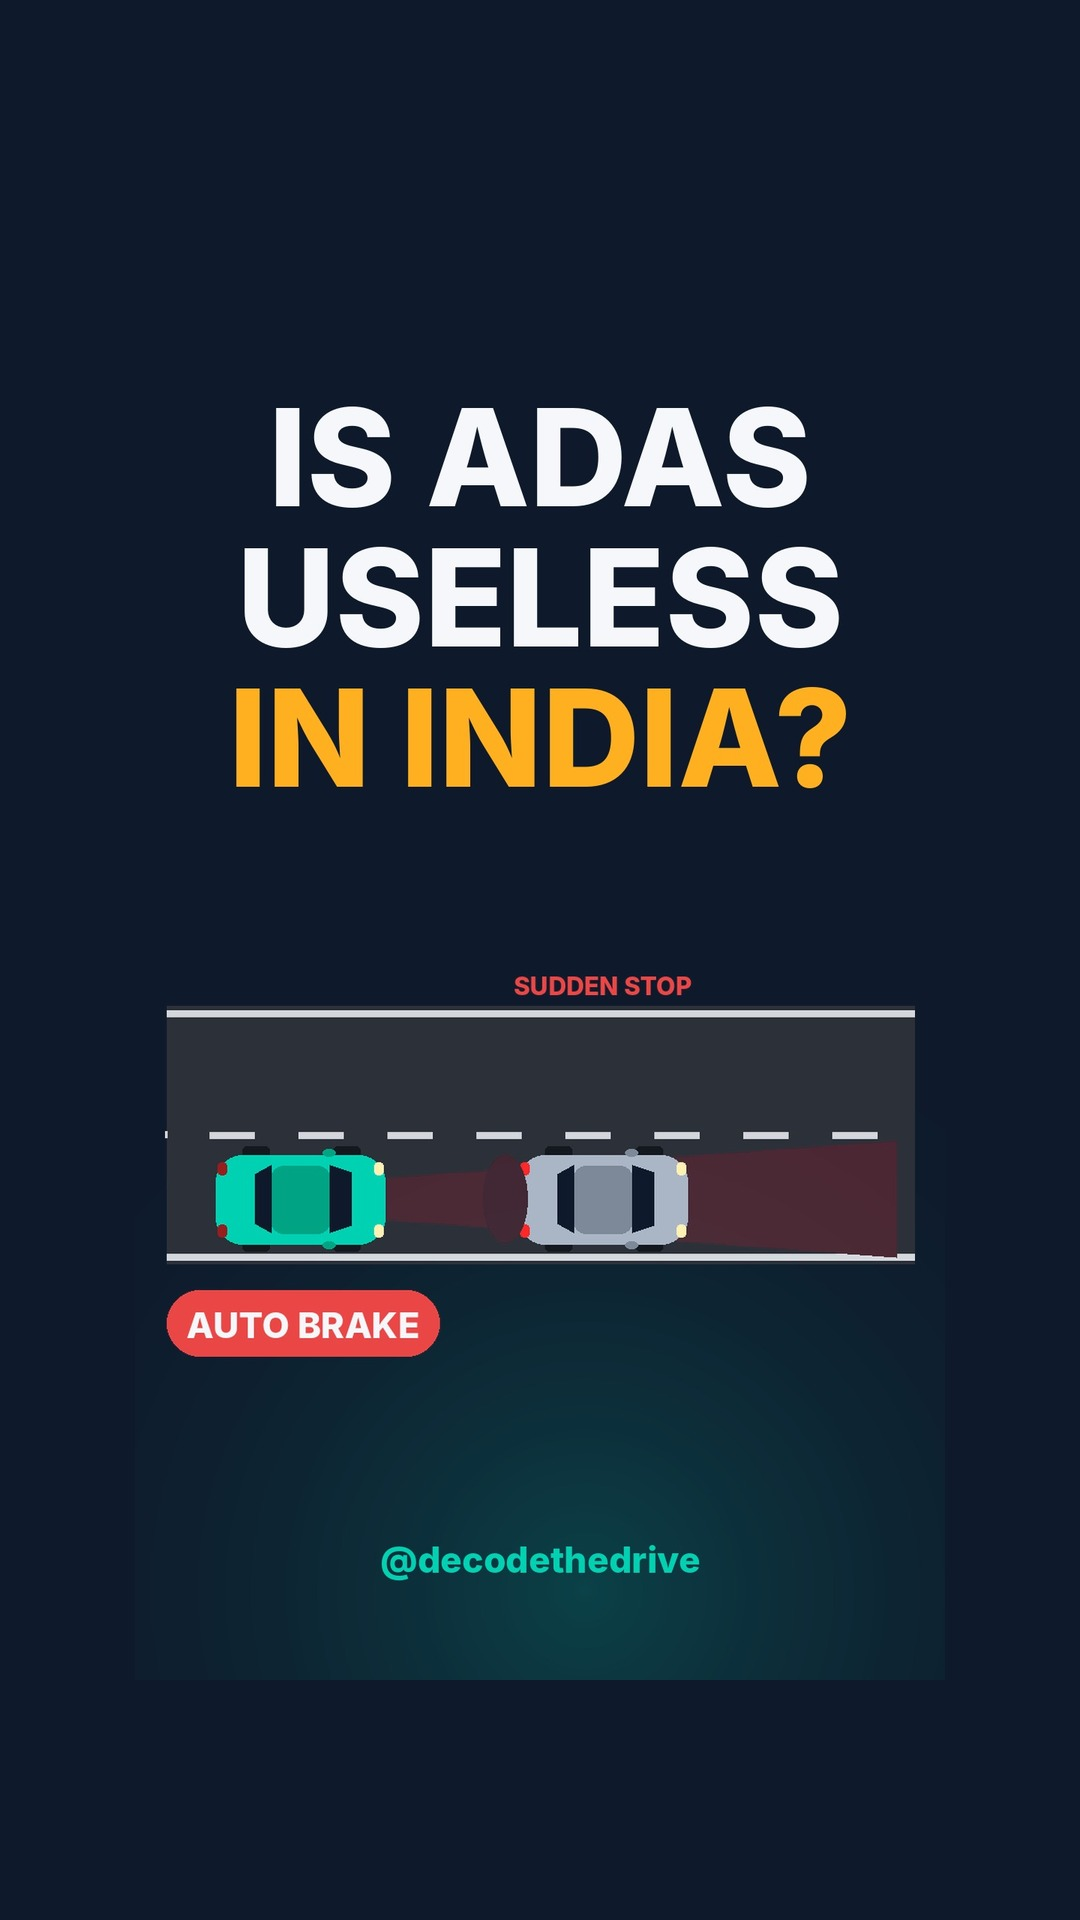
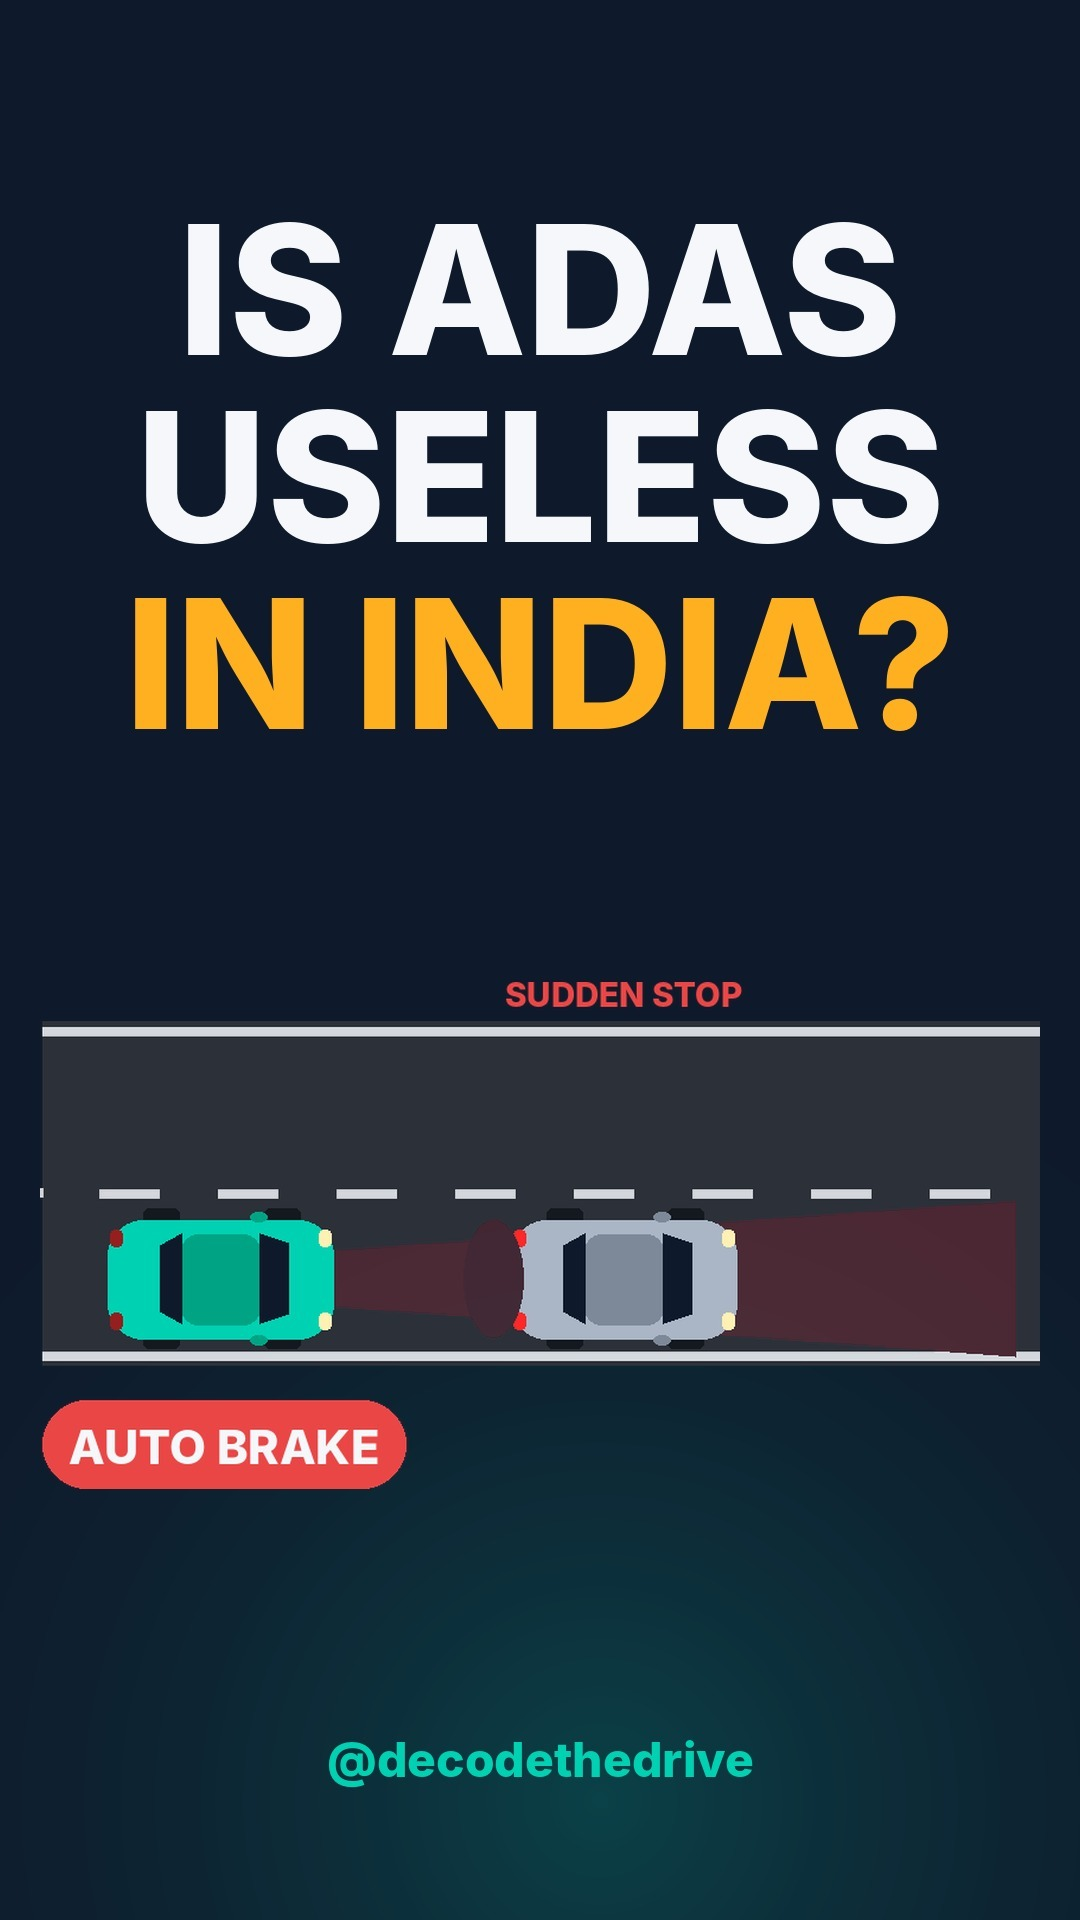
Instagram covers are full screen, no border (owner's choice)
Claude-Session: https://claude.ai/code/session_019nGMK1H6NFztfiBrf6fioQ

Changed region(s): [[0.0306, 0.5, 0.9778, 0.8438], [0.1222, 0.0938, 0.8861, 0.4375], [0.3056, 0.875, 0.7639, 1.0]]

diff --git a/agent/motion.py b/agent/motion.py
@@ -409,15 +409,10 @@ def render_motion(post, path: Path, handle="@decodethedrive", music: Path | None
 
 
 def instagram_cover(thumbnail: Path, cover: Path) -> Path:
-    """The YouTube thumbnail as the Instagram reel cover. The profile grid
-    shows only the middle 3:4 of a reel cover, so the whole design is shrunk
-    into that band to keep the title and visual from being cut off."""
-    band = W * 4 // 3
+    """The YouTube thumbnail as the Instagram reel cover, full screen with no
+    border (the owner's choice; the profile grid shows its middle 3:4)."""
     with Image.open(thumbnail) as im:
-        art = im.convert("RGB").resize((band * W // H, band), Image.LANCZOS)
-    out = Image.new("RGB", (W, H), NAVY)
-    out.paste(art, ((W - art.width) // 2, (H - band) // 2))
-    out.save(cover, "JPEG", quality=92)
+        im.convert("RGB").resize((W, H), Image.LANCZOS).save(cover, "JPEG", quality=92)
     return cover
 
 

diff --git a/tests/test_agent.py b/tests/test_agent.py
@@ -463,13 +463,13 @@ def test_meter_reel_renders(tmp_path):
     assert files
 
 
-def test_instagram_cover_fits_the_grid_crop(tmp_path):
+def test_instagram_cover_is_full_screen(tmp_path):
     from PIL import Image
     from agent.motion import instagram_cover
     Image.new("RGB", (1080, 1920), (255, 0, 0)).save(tmp_path / "t.jpg")
     with Image.open(instagram_cover(tmp_path / "t.jpg", tmp_path / "c.jpg")) as im:
         assert im.size == (1080, 1920)
-        assert im.getpixel((540, 200))[0] < 100 and im.getpixel((540, 960))[0] > 200
+        assert im.getpixel((540, 10))[0] > 200 and im.getpixel((540, 960))[0] > 200
 
 
 def test_weekday_reels_are_youtube_only():
